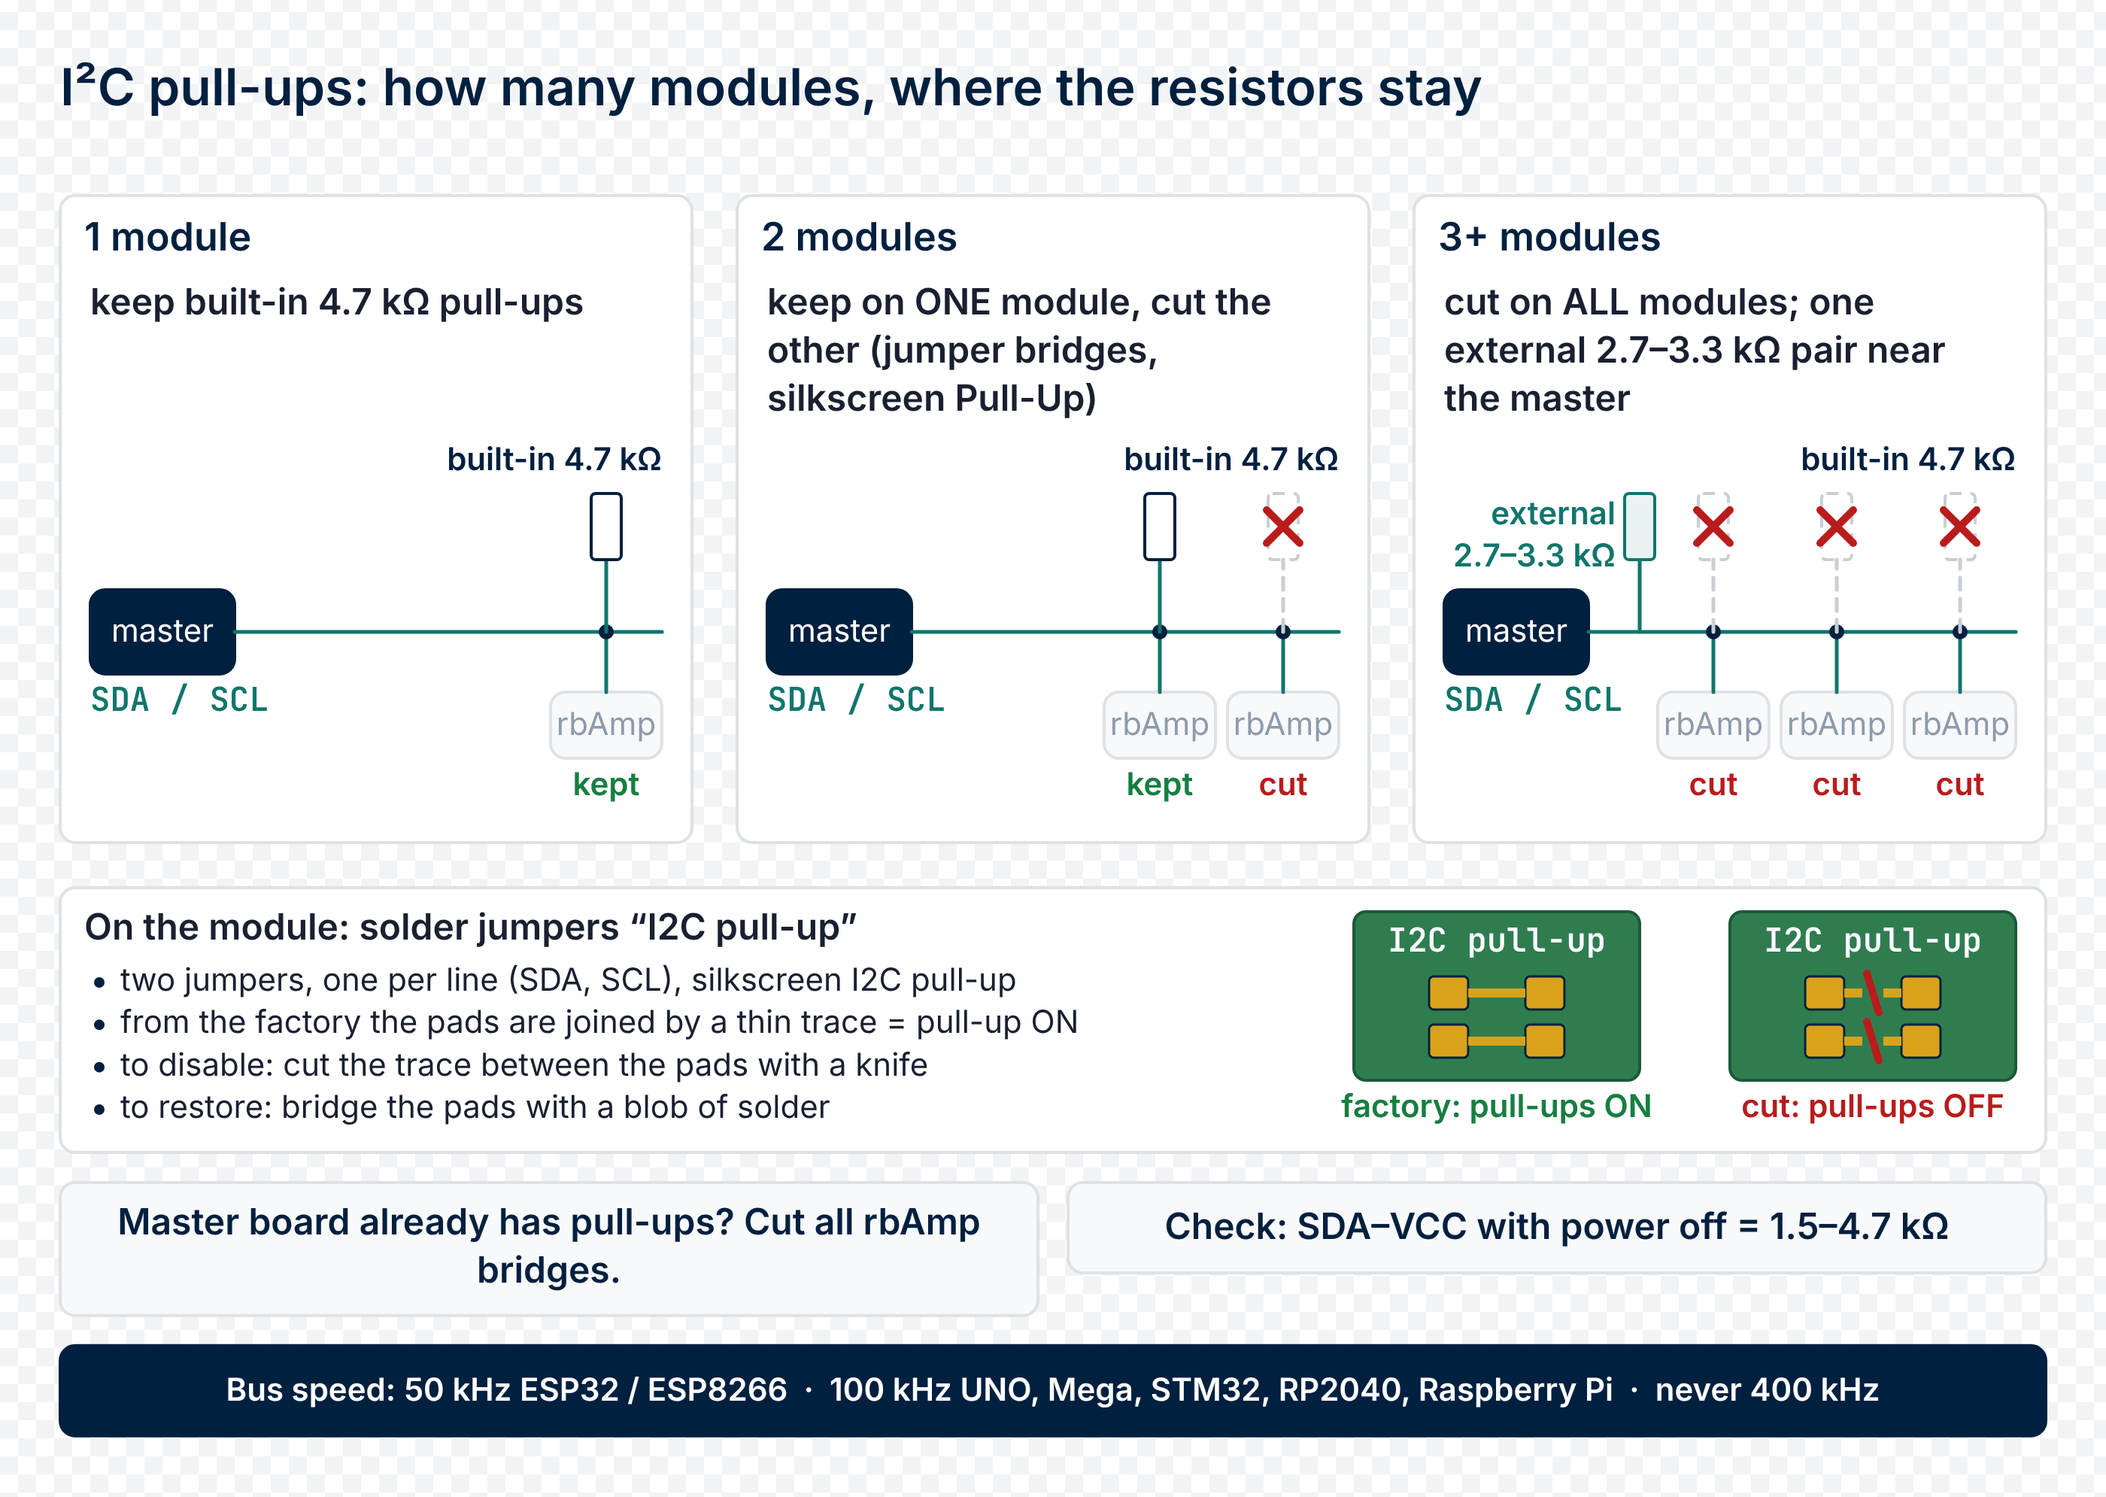
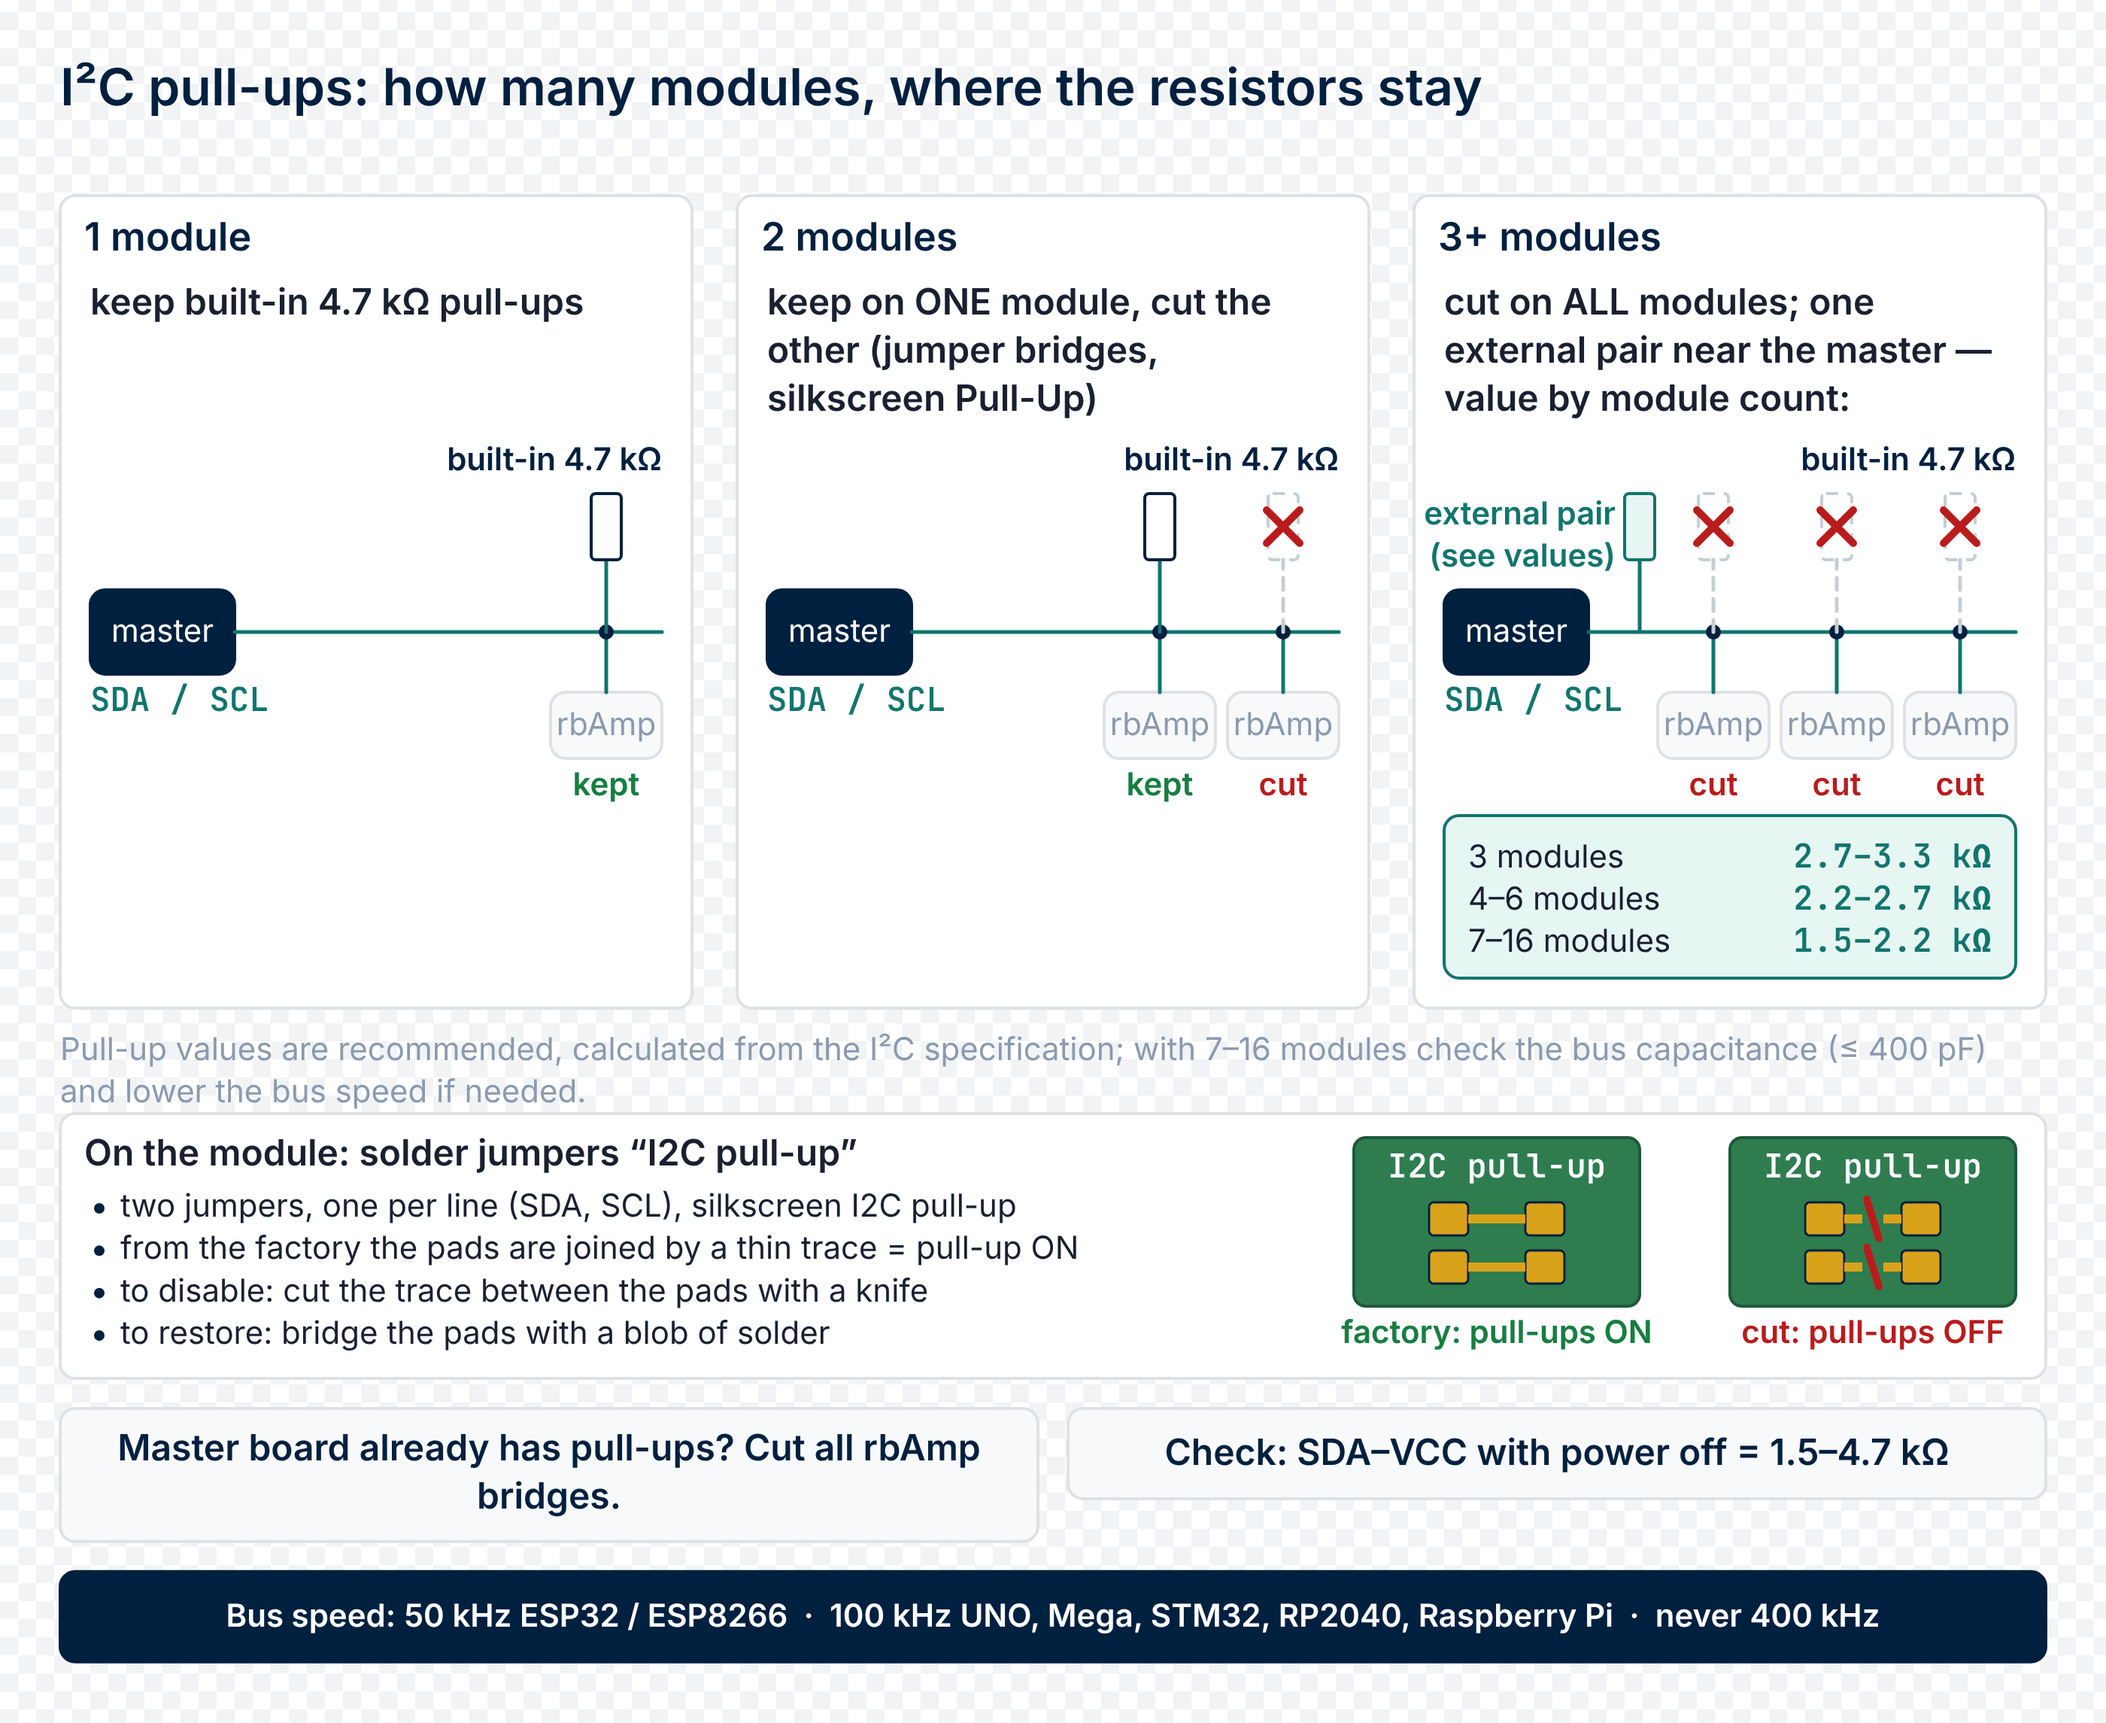
docs: corrected pictures (supply 4.5-5.5 V, pull-up values by module count)

diff --git a/docs/04_hardware.md b/docs/04_hardware.md
@@ -136,7 +136,7 @@ with a sharp blade:
 | 4…6 | Cut on all modules, one external 2.2…2.7 kΩ pair near the ESP32 |
 | 7…16 | Cut on all modules, one external 1.5…2.2 kΩ pair near the ESP32; check the bus capacitance (≤ 400 pF), lower the bus speed if needed |
 
-The external values are recommended values (calculated from the I²C specification: sink current ≤ 3 mA at 3.3 V, bus capacitance ≤ 400 pF).
+The external values are recommended values (calculated from the I²C specification: sink current ≤ 3 mA at 3.3 V, bus capacitance ≤ 400 pF). Connect the external pull-ups to **3.3 V** (the logic level of the bus), not to the 5 V `VCC` supply.
 
 > **If in doubt**: measure the resistance between SDA and the 3V3 line with
 > all devices unpowered. It should be in the **1.5..4.7 kΩ** range. Lower —
